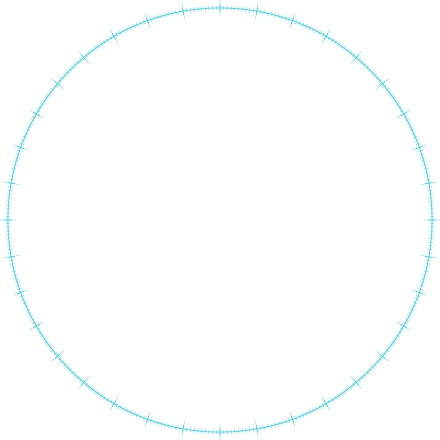
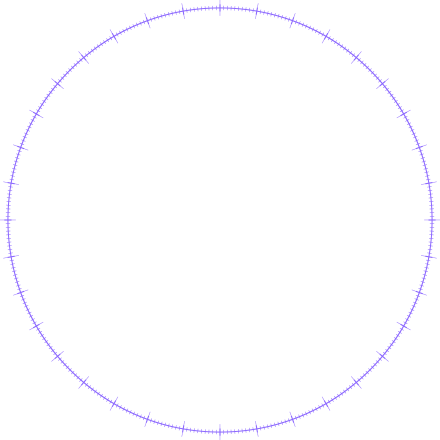
commit

diff --git a/css/common.less b/css/common.less
@@ -19,7 +19,7 @@ sub{bottom:-.25em}
 ins,a{text-decoration:none}
 .bgmainColor{background: #fff;color: #b4b4b4;}
 a{color:inherit;}
-input{border:0;outline:0;background: transparent;text-indent: 2em;color: #46D6EB;}
+input{border:0;outline:0;background: transparent;text-indent: 2em;color: #8b67ff;}
 ::-webkit-input-placeholder{
     color: #2a7a86;
 }
@@ -199,7 +199,7 @@ input{border:0;outline:0;background: transparent;text-indent: 2em;color: #46D6EB
 .mint-header{background:#52BFFF;color: #ffffff;font-size: 18/@baserm;}
 .linerColor{color: #fff}
 .bdb{
-    border-bottom: 1/@baserm solid #46D6EB;
+    border-bottom: 1/@baserm solid #8b67ff;
 }
 .plr10{
     padding-left: 10/@baserm;
@@ -286,9 +286,9 @@ input:-webkit-autofill {
     display: block;
     height: 40/@baserm;
     border: none;
-    border-left: 1px solid #46D6EB;
-    border-right: 1px solid #46D6EB;
-    color: #46D6EB;
+    border-left: 1px solid #8b67ff;
+    border-right: 1px solid #8b67ff;
+    color: #8b67ff;
     outline: none;
     background-color: rgba(40, 57, 65, 0.5);;
     text-align: center;
@@ -389,29 +389,29 @@ input:-webkit-autofill {
 .tangle_left{
     left: 0;
     top: 0;
-    border-top: .05rem solid #46D6EB;
-    border-left: .05rem solid #46D6EB;
+    border-top: .05rem solid #8b67ff;
+    border-left: .05rem solid #8b67ff;
 }
 .tangle_right{
     right: 0;
     top: 0;
-    border-top: .05rem solid #46D6EB;
-    border-right: .05rem solid #46D6EB;
+    border-top: .05rem solid #8b67ff;
+    border-right: .05rem solid #8b67ff;
 }
 .tangle_bottom_left{
     left: 0;
     bottom: 0;
-    border-left: .05rem solid #46D6EB;
-    border-bottom: .05rem solid #46D6EB;
+    border-left: .05rem solid #8b67ff;
+    border-bottom: .05rem solid #8b67ff;
 }
 .tangle_bottom_right{
     right: 0;
     bottom: 0;
-    border-right: .05rem solid #46D6EB;
-    border-bottom: .05rem solid #46D6EB;
+    border-right: .05rem solid #8b67ff;
+    border-bottom: .05rem solid #8b67ff;
 }
 .bl_box{
-    border:1px solid #46D6EB;
+    border:1px solid #8b67ff;
 }
 
 .layer_box_kefu{

diff --git a/css/common.css b/css/common.css
@@ -142,7 +142,7 @@ input {
   outline: 0;
   background: transparent;
   text-indent: 2em;
-  color: #46D6EB;
+  color: #8b67ff;
 }
 ::-webkit-input-placeholder {
   color: #2a7a86;
@@ -486,7 +486,7 @@ input {
   color: #fff;
 }
 .bdb {
-  border-bottom: 0.02666667rem solid #46D6EB;
+  border-bottom: 0.02666667rem solid #8b67ff;
 }
 .plr10 {
   padding-left: 0.26666667rem;
@@ -571,9 +571,9 @@ input:-webkit-autofill {
   display: block;
   height: 1.06666667rem;
   border: none;
-  border-left: 1px solid #46D6EB;
-  border-right: 1px solid #46D6EB;
-  color: #46D6EB;
+  border-left: 1px solid #8b67ff;
+  border-right: 1px solid #8b67ff;
+  color: #8b67ff;
   outline: none;
   background-color: rgba(40, 57, 65, 0.5);
   text-align: center;
@@ -669,29 +669,29 @@ input:-webkit-autofill {
 .tangle_left {
   left: 0;
   top: 0;
-  border-top: .05rem solid #46D6EB;
-  border-left: .05rem solid #46D6EB;
+  border-top: .05rem solid #8b67ff;
+  border-left: .05rem solid #8b67ff;
 }
 .tangle_right {
   right: 0;
   top: 0;
-  border-top: .05rem solid #46D6EB;
-  border-right: .05rem solid #46D6EB;
+  border-top: .05rem solid #8b67ff;
+  border-right: .05rem solid #8b67ff;
 }
 .tangle_bottom_left {
   left: 0;
   bottom: 0;
-  border-left: .05rem solid #46D6EB;
-  border-bottom: .05rem solid #46D6EB;
+  border-left: .05rem solid #8b67ff;
+  border-bottom: .05rem solid #8b67ff;
 }
 .tangle_bottom_right {
   right: 0;
   bottom: 0;
-  border-right: .05rem solid #46D6EB;
-  border-bottom: .05rem solid #46D6EB;
+  border-right: .05rem solid #8b67ff;
+  border-bottom: .05rem solid #8b67ff;
 }
 .bl_box {
-  border: 1px solid #46D6EB;
+  border: 1px solid #8b67ff;
 }
 .layer_box_kefu {
   background-color: rgba(0, 0, 0, 0.8);
